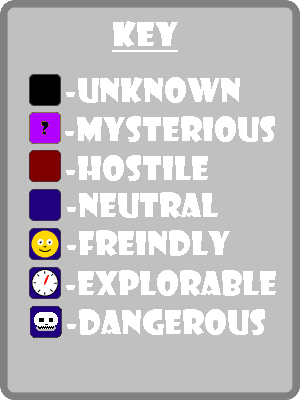
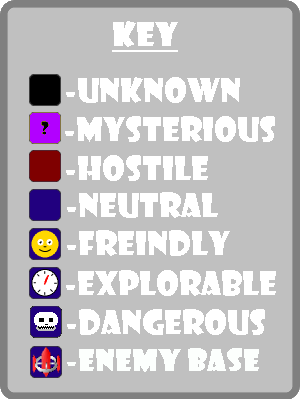
changed key pic and some cosmetic changes
Added enemy base to key.
Updated controls underneath map.
Changed science station to say scanner instead of probe.

diff --git a/src/com/starshipsim/states/MapState.java b/src/com/starshipsim/states/MapState.java
@@ -135,10 +135,9 @@ public class MapState extends State {
 		mapMenu.getMapListener().draw(g, getGrid());
 		
 		//Temp
-		g.drawString("Press Escape to return to the Main Menu.", 32, 950);
+		g.drawString("Press Escape to exit the map.", 32, 950);
 		g.drawString("Press E to enter Combat.", 32,  1000);
-		g.drawString("Press Q to explore Sector", 32,  1050);
-		g.drawString("Press R to view the store", 450,  1000);
+		g.drawString("Press R to view the store", 32,  1050);
 	}
 
 	public void end() {

diff --git a/src/com/starshipsim/panels/MapMenuPanel.java b/src/com/starshipsim/panels/MapMenuPanel.java
@@ -333,7 +333,7 @@ public class MapMenuPanel {
 					state.getPlayer().getInventory().get(5).setAmount(state.getPlayer().getInventory().get(5).getAmount()-1);
 					state.setScienceLevel(0);
 				} else {
-					state.changeLog("Sorry, you're out of probes.");
+					state.changeLog("Sorry, you're out of scanners.");
 				}
 			} else {
 				state.changeLog("That sector is already known");
